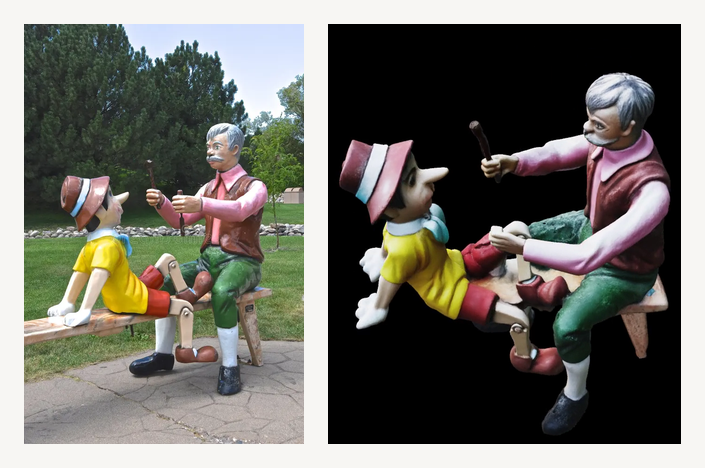
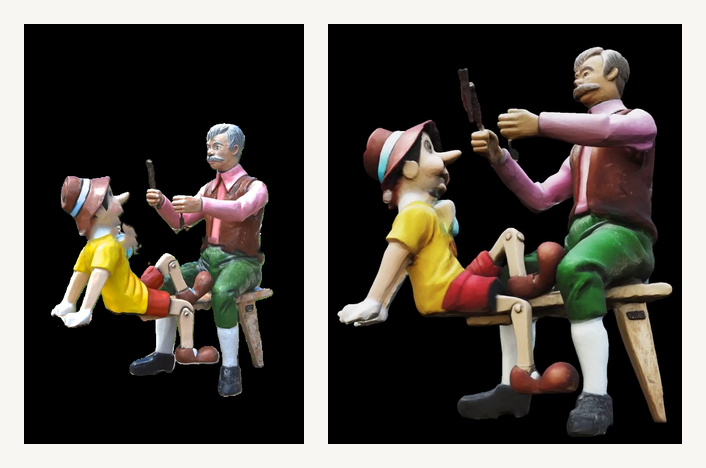
Regenerate the statue example from a clean cut-out
Replaces the earlier comparison, which came from a watermarked frame and showed
the model from behind because the turntable starts at its back.

- Source is now a pre-cut RGBA image, so the run used --no-preprocess: faster,
  and it never loads the non-commercial RMBG-2.0 weights — a worked example of
  the commercially-safe path the licensing section describes.
- make-hero.sh takes --at to choose the frame, since the camera orbits the
  model and the default angle rarely matches how the subject was photographed.
  Picked by sampling the whole orbit rather than guessing.

diff --git a/README.md b/README.md
@@ -321,8 +321,9 @@ Drag an image in, choose detail and which formats you want, and press **Make it 
 
 ![A painted statue of Geppetto and Pinocchio on a bench, and the 3D model reconstructed from that single photograph](docs/test-statue.png)
 
-*A harder case: two figures, a bench and a park background. Both figures, their poses and the bench
-all survive — this is the kind of input the model is built for.*
+*A harder case: two figures, a bench, tools and jointed limbs, all reconstructed from one photograph.
+This one was run with `--no-preprocess` on a pre-cut RGBA image, which skips background removal
+entirely — faster, more predictable, and it never loads the non-commercial RMBG-2.0 weights.*
 
 TRELLIS.2 infers three dimensions from the depth cues in a photograph: shading, occlusion,
 perspective, the way light falls across a surface. That shapes what works.
